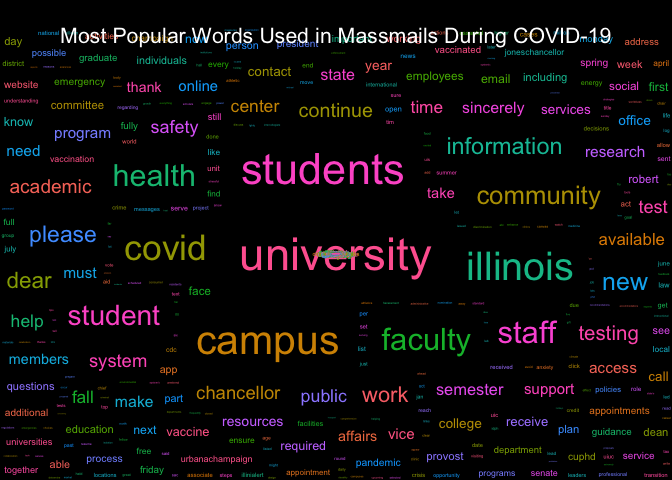
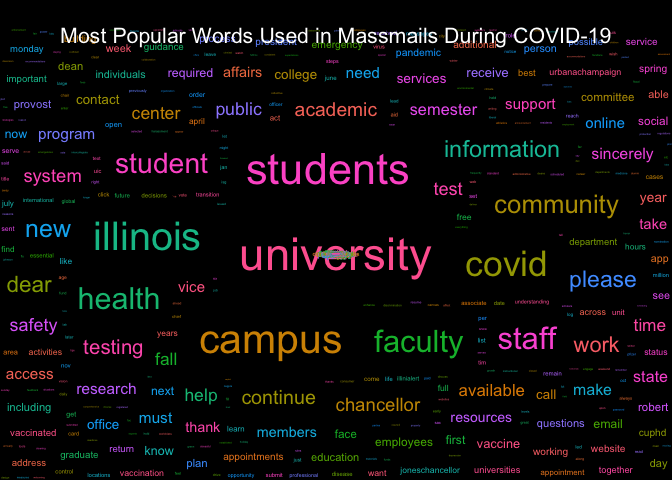
Re-build README.Rmd and Graphs

Changed region(s): [[0.0, 0.0625, 1.0, 1.0]]

diff --git a/README.md b/README.md
@@ -17,7 +17,7 @@ The archive may be viewed here:
 
 <https://massmail.illinois.edu/massmailArchive>
 
-Data has **809** observations and **7** variables:
+Data has **810** observations and **7** variables:
 
 - `datetime`: Date and time when the email was sent in the form of
   `YYYY-MM-DD HMS` with either CDT or CST.
@@ -211,15 +211,15 @@ head(most_popular_words, 10) %>%
 | word       | freq |
 |:-----------|-----:|
 | university | 1951 |
-| students   | 1671 |
-| campus     | 1505 |
-| illinois   | 1315 |
+| students   | 1672 |
+| campus     | 1506 |
+| illinois   | 1317 |
 | covid      | 1070 |
-| faculty    |  993 |
+| faculty    |  994 |
 | community  |  921 |
 | health     |  914 |
-| student    |  875 |
-| staff      |  825 |
+| student    |  879 |
+| staff      |  826 |
 
 #### Wordcloud
 
